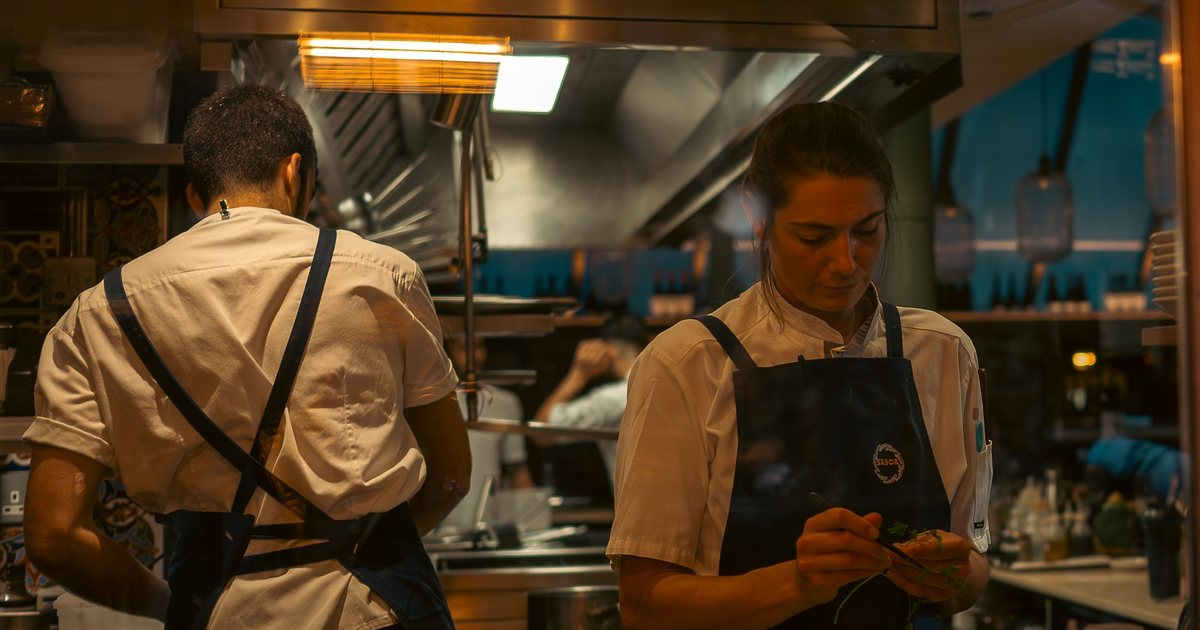
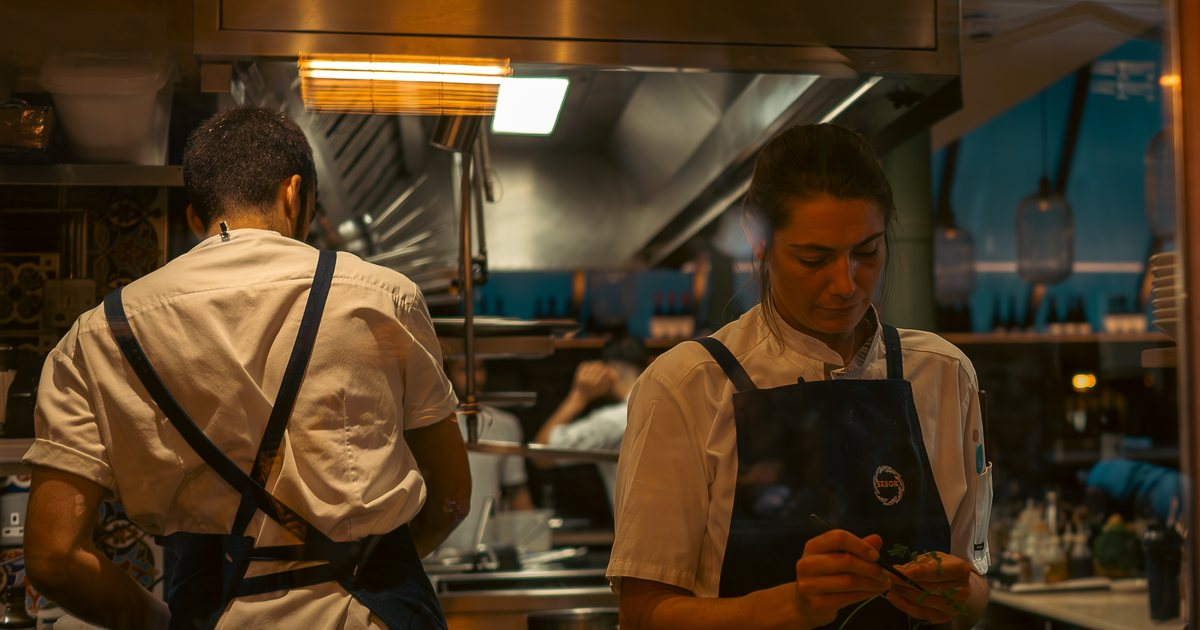
About portrait: David with the Z6 II in the car (21 Oct 2026), replacing the behind-the-wheel portrait
Claude-Session: https://claude.ai/code/session_01VeaS1LDqTvXgjWxFwdoPuX

diff --git a/site/guides/business-email-free/index.html b/site/guides/business-email-free/index.html
@@ -13,7 +13,7 @@
 <meta property="og:image" content="https://davidslv.photography/images/guide/b1/cards-og.jpg">
 <meta name="twitter:card" content="summary_large_image">
 <link rel="icon" href="/favicon.svg" type="image/svg+xml">
-<script type="application/ld+json">{"@context": "https://schema.org", "@type": "Article", "headline": "A business email on your own domain, free (Gmail + Cloudflare)", "description": "How to get hello@yourdomain for free: Cloudflare Email Routing forwards it to Gmail, and Gmail's Send mail as replies from it. Step by step, with the problems I hit.", "image": "https://davidslv.photography/images/guide/b1/cards-og.jpg", "url": "https://davidslv.photography/guides/business-email-free/", "inLanguage": "en-GB", "dateModified": "2026-11-04T11:12:30+00:00", "author": {"@type": "Person", "name": "David Silva", "url": "https://davidslv.photography/"}, "publisher": {"@type": "Person", "name": "David Silva", "url": "https://davidslv.photography/"}}</script>
+<script type="application/ld+json">{"@context": "https://schema.org", "@type": "Article", "headline": "A business email on your own domain, free (Gmail + Cloudflare)", "description": "How to get hello@yourdomain for free: Cloudflare Email Routing forwards it to Gmail, and Gmail's Send mail as replies from it. Step by step, with the problems I hit.", "image": "https://davidslv.photography/images/guide/b1/cards-og.jpg", "url": "https://davidslv.photography/guides/business-email-free/", "inLanguage": "en-GB", "dateModified": "2026-11-04T11:15:15+00:00", "author": {"@type": "Person", "name": "David Silva", "url": "https://davidslv.photography/"}, "publisher": {"@type": "Person", "name": "David Silva", "url": "https://davidslv.photography/"}}</script>
 <script type="module" src="https://static.cloudflareinsights.com/beacon.min.js" data-cf-beacon='{"token": "e5049d2f041d46859a41276d44ddba33"}'></script><script>/* Anonymous reading stats for this site (site-stats Worker). No cookies, nothing stored on the device,
    no IP kept. Skipped for browsers sending Global Privacy Control or Do Not Track, and for automation. */
 (() => {

diff --git a/site/guides/sell-your-photo-book/index.html b/site/guides/sell-your-photo-book/index.html
@@ -13,7 +13,7 @@
 <meta property="og:image" content="https://davidslv.photography/images/guide-og.jpg">
 <meta name="twitter:card" content="summary_large_image">
 <link rel="icon" href="/favicon.svg" type="image/svg+xml">
-<script type="application/ld+json">{"@context": "https://schema.org", "@type": "Article", "headline": "Sell your photo book from your own website", "description": "A free step-by-step guide to selling a print-on-demand photo book from your own website with Stripe and Prodigi, with no shop platform and no monthly fee. Two routes: no code, or automatic orders.", "image": "https://davidslv.photography/images/guide-og.jpg", "url": "https://davidslv.photography/guides/sell-your-photo-book/", "inLanguage": "en-GB", "dateModified": "2026-11-04T11:12:30+00:00", "author": {"@type": "Person", "name": "David Silva", "url": "https://davidslv.photography/"}, "publisher": {"@type": "Person", "name": "David Silva", "url": "https://davidslv.photography/"}}</script>
+<script type="application/ld+json">{"@context": "https://schema.org", "@type": "Article", "headline": "Sell your photo book from your own website", "description": "A free step-by-step guide to selling a print-on-demand photo book from your own website with Stripe and Prodigi, with no shop platform and no monthly fee. Two routes: no code, or automatic orders.", "image": "https://davidslv.photography/images/guide-og.jpg", "url": "https://davidslv.photography/guides/sell-your-photo-book/", "inLanguage": "en-GB", "dateModified": "2026-11-04T11:15:15+00:00", "author": {"@type": "Person", "name": "David Silva", "url": "https://davidslv.photography/"}, "publisher": {"@type": "Person", "name": "David Silva", "url": "https://davidslv.photography/"}}</script>
 <script type="module" src="https://static.cloudflareinsights.com/beacon.min.js" data-cf-beacon='{"token": "e5049d2f041d46859a41276d44ddba33"}'></script><script>/* Anonymous reading stats for this site (site-stats Worker). No cookies, nothing stored on the device,
    no IP kept. Skipped for browsers sending Global Privacy Control or Do Not Track, and for automation. */
 (() => {

diff --git a/site/guides/flat-car-meet-photos/index.html b/site/guides/flat-car-meet-photos/index.html
@@ -13,7 +13,7 @@
 <meta property="og:image" content="https://davidslv.photography/images/guide/a1/DSC_5226_after_D01.jpg">
 <meta name="twitter:card" content="summary_large_image">
 <link rel="icon" href="/favicon.svg" type="image/svg+xml">
-<script type="application/ld+json">{"@context": "https://schema.org", "@type": "Article", "headline": "Why your car meet photos look flat (and the fix)", "description": "Grey UK mornings make car meet photos dark and flat. Why it happens, and a free six-step fix in Lightroom, with before and after photos from real meets.", "image": "https://davidslv.photography/images/guide/a1/DSC_5226_after_D01.jpg", "url": "https://davidslv.photography/guides/flat-car-meet-photos/", "inLanguage": "en-GB", "dateModified": "2026-11-04T11:12:30+00:00", "author": {"@type": "Person", "name": "David Silva", "url": "https://davidslv.photography/"}, "publisher": {"@type": "Person", "name": "David Silva", "url": "https://davidslv.photography/"}}</script>
+<script type="application/ld+json">{"@context": "https://schema.org", "@type": "Article", "headline": "Why your car meet photos look flat (and the fix)", "description": "Grey UK mornings make car meet photos dark and flat. Why it happens, and a free six-step fix in Lightroom, with before and after photos from real meets.", "image": "https://davidslv.photography/images/guide/a1/DSC_5226_after_D01.jpg", "url": "https://davidslv.photography/guides/flat-car-meet-photos/", "inLanguage": "en-GB", "dateModified": "2026-11-04T11:15:15+00:00", "author": {"@type": "Person", "name": "David Silva", "url": "https://davidslv.photography/"}, "publisher": {"@type": "Person", "name": "David Silva", "url": "https://davidslv.photography/"}}</script>
 <script type="module" src="https://static.cloudflareinsights.com/beacon.min.js" data-cf-beacon='{"token": "e5049d2f041d46859a41276d44ddba33"}'></script><script>/* Anonymous reading stats for this site (site-stats Worker). No cookies, nothing stored on the device,
    no IP kept. Skipped for browsers sending Global Privacy Control or Do Not Track, and for automation. */
 (() => {

diff --git a/site/guides/portfolio-website-free/index.html b/site/guides/portfolio-website-free/index.html
@@ -13,7 +13,7 @@
 <meta property="og:image" content="https://davidslv.photography/images/guide/b2/home.jpg">
 <meta name="twitter:card" content="summary_large_image">
 <link rel="icon" href="/favicon.svg" type="image/svg+xml">
-<script type="application/ld+json">{"@context": "https://schema.org", "@type": "Article", "headline": "A photography portfolio website for \u00a30 a month", "description": "How this photography site runs on GitHub Pages for \u00a30 a month, on its own domain: the costs, the steps, fast photos that stay yours, and what it can't do.", "image": "https://davidslv.photography/images/guide/b2/home.jpg", "url": "https://davidslv.photography/guides/portfolio-website-free/", "inLanguage": "en-GB", "dateModified": "2026-11-04T11:12:30+00:00", "author": {"@type": "Person", "name": "David Silva", "url": "https://davidslv.photography/"}, "publisher": {"@type": "Person", "name": "David Silva", "url": "https://davidslv.photography/"}}</script>
+<script type="application/ld+json">{"@context": "https://schema.org", "@type": "Article", "headline": "A photography portfolio website for \u00a30 a month", "description": "How this photography site runs on GitHub Pages for \u00a30 a month, on its own domain: the costs, the steps, fast photos that stay yours, and what it can't do.", "image": "https://davidslv.photography/images/guide/b2/home.jpg", "url": "https://davidslv.photography/guides/portfolio-website-free/", "inLanguage": "en-GB", "dateModified": "2026-11-04T11:15:15+00:00", "author": {"@type": "Person", "name": "David Silva", "url": "https://davidslv.photography/"}, "publisher": {"@type": "Person", "name": "David Silva", "url": "https://davidslv.photography/"}}</script>
 <script type="module" src="https://static.cloudflareinsights.com/beacon.min.js" data-cf-beacon='{"token": "e5049d2f041d46859a41276d44ddba33"}'></script><script>/* Anonymous reading stats for this site (site-stats Worker). No cookies, nothing stored on the device,
    no IP kept. Skipped for browsers sending Global Privacy Control or Do Not Track, and for automation. */
 (() => {

diff --git a/site/field-guide/index.html b/site/field-guide/index.html
@@ -13,7 +13,7 @@
 <meta property="og:image" content="https://davidslv.photography/images/field-guide/guide-cover-1920w.jpg">
 <meta name="twitter:card" content="summary_large_image">
 <link rel="icon" href="/favicon.svg" type="image/svg+xml">
-<script type="application/ld+json">{"@context": "https://schema.org", "@type": "Article", "headline": "The Car Meet Field Guide", "description": "A free 36-page printable field guide and 32 quick cards for your phone: how to plan a car meet, read the light, the angles round every car, and the settings I use.", "image": "https://davidslv.photography/images/field-guide/guide-cover-1920w.jpg", "url": "https://davidslv.photography/field-guide/", "inLanguage": "en-GB", "dateModified": "2026-11-04T11:12:30+00:00", "author": {"@type": "Person", "name": "David Silva", "url": "https://davidslv.photography/"}, "publisher": {"@type": "Person", "name": "David Silva", "url": "https://davidslv.photography/"}}</script>
+<script type="application/ld+json">{"@context": "https://schema.org", "@type": "Article", "headline": "The Car Meet Field Guide", "description": "A free 36-page printable field guide and 32 quick cards for your phone: how to plan a car meet, read the light, the angles round every car, and the settings I use.", "image": "https://davidslv.photography/images/field-guide/guide-cover-1920w.jpg", "url": "https://davidslv.photography/field-guide/", "inLanguage": "en-GB", "dateModified": "2026-11-04T11:15:15+00:00", "author": {"@type": "Person", "name": "David Silva", "url": "https://davidslv.photography/"}, "publisher": {"@type": "Person", "name": "David Silva", "url": "https://davidslv.photography/"}}</script>
 <script type="module" src="https://static.cloudflareinsights.com/beacon.min.js" data-cf-beacon='{"token": "e5049d2f041d46859a41276d44ddba33"}'></script><script>/* Anonymous reading stats for this site (site-stats Worker). No cookies, nothing stored on the device,
    no IP kept. Skipped for browsers sending Global Privacy Control or Do Not Track, and for automation. */
 (() => {

diff --git a/site/index.html b/site/index.html
@@ -35,7 +35,7 @@
    "name": "David Silva",
    "url": "https://davidslv.photography/",
    "jobTitle": "Photographer and software engineer",
-   "image": "https://davidslv.photography/images/david-silva.f6a20cc0e2.jpg",
+   "image": "https://davidslv.photography/images/david-silva.be338991a1.jpg",
    "email": "mailto:hello@davidslv.photography",
    "address": {
     "@type": "PostalAddress",
@@ -76,7 +76,7 @@
    "primaryImageOfPage": {
     "@id": "https://davidslv.photography/#photo-n172"
    },
-   "dateModified": "2026-11-04T11:12:30+00:00",
+   "dateModified": "2026-11-04T11:15:15+00:00",
    "mainEntity": {
     "@id": "https://davidslv.photography/#david"
    },
@@ -780,7 +780,7 @@ header.site nav.main { flex-wrap: wrap; column-gap: 20px; row-gap: 0; }
 <p class="home-line">Photographs of a family vineyard in Sicily, for the website I'm building for them.</p>
 <p><a class="btn" href="/sicily/">See the harvest</a></p></section>
 <section class="about" id="about">
-<img src="/images/david-silva.f6a20cc0e2.jpg" width="800" height="800" loading="lazy" decoding="async" alt="Portrait of David Silva.">
+<img src="/images/david-silva.be338991a1.jpg" width="800" height="800" loading="lazy" decoding="async" alt="Portrait of David Silva.">
 <div><p class="lbl">About</p><h2>David Silva</h2>
 <p>I'm David Silva, a photographer and software engineer in London. I've photographed London at night and two years of Sunday car meets, and made books of both. I've written software since I was 12. So the photos and the website come from the same person, and you deal with one person from start to finish.</p></div></section>
 <section class="more" aria-labelledby="ph-h"><h2 id="ph-h" class="lbl more-head">For photographers</h2>

diff --git a/site/blackbushe/index.html b/site/blackbushe/index.html
@@ -35,7 +35,7 @@
    "name": "David Silva",
    "url": "https://davidslv.photography/",
    "jobTitle": "Photographer and software engineer",
-   "image": "https://davidslv.photography/images/david-silva.f6a20cc0e2.jpg",
+   "image": "https://davidslv.photography/images/david-silva.be338991a1.jpg",
    "email": "mailto:hello@davidslv.photography",
    "address": {
     "@type": "PostalAddress",
@@ -73,7 +73,7 @@
    "primaryImageOfPage": {
     "@id": "https://davidslv.photography/blackbushe/#photo-b7708"
    },
-   "dateModified": "2026-11-04T11:12:30+00:00",
+   "dateModified": "2026-11-04T11:15:15+00:00",
    "mainEntity": {
     "@type": "ImageGallery",
     "name": "Porsche Club GB Region 29 at Blackbushe, 11 October 2026",

diff --git a/site/mclaren/index.html b/site/mclaren/index.html
@@ -35,7 +35,7 @@
    "name": "David Silva",
    "url": "https://davidslv.photography/",
    "jobTitle": "Photographer and software engineer",
-   "image": "https://davidslv.photography/images/david-silva.f6a20cc0e2.jpg",
+   "image": "https://davidslv.photography/images/david-silva.be338991a1.jpg",
    "email": "mailto:hello@davidslv.photography",
    "address": {
     "@type": "PostalAddress",
@@ -73,7 +73,7 @@
    "primaryImageOfPage": {
     "@id": "https://davidslv.photography/mclaren/#photo-m0206"
    },
-   "dateModified": "2026-11-04T11:12:30+00:00",
+   "dateModified": "2026-11-04T11:15:15+00:00",
    "mainEntity": {
     "@type": "ImageGallery",
     "name": "A day at the McLaren Technology Centre open day, 2024",

diff --git a/site/sunday/index.html b/site/sunday/index.html
@@ -35,7 +35,7 @@
    "name": "David Silva",
    "url": "https://davidslv.photography/",
    "jobTitle": "Photographer and software engineer",
-   "image": "https://davidslv.photography/images/david-silva.f6a20cc0e2.jpg",
+   "image": "https://davidslv.photography/images/david-silva.be338991a1.jpg",
    "email": "mailto:hello@davidslv.photography",
    "address": {
     "@type": "PostalAddress",
@@ -73,7 +73,7 @@
    "primaryImageOfPage": {
     "@id": "https://davidslv.photography/sunday/#photo-s3706"
    },
-   "dateModified": "2026-11-04T11:12:30+00:00",
+   "dateModified": "2026-11-04T11:15:15+00:00",
    "mainEntity": {
     "@type": "ImageGallery",
     "name": "Sunday car meets, November 2024 to October 2026",

diff --git a/site/sicily/index.html b/site/sicily/index.html
@@ -35,7 +35,7 @@
    "name": "David Silva",
    "url": "https://davidslv.photography/",
    "jobTitle": "Photographer and software engineer",
-   "image": "https://davidslv.photography/images/david-silva.f6a20cc0e2.jpg",
+   "image": "https://davidslv.photography/images/david-silva.be338991a1.jpg",
    "email": "mailto:hello@davidslv.photography",
    "address": {
     "@type": "PostalAddress",
@@ -73,7 +73,7 @@
    "primaryImageOfPage": {
     "@id": "https://davidslv.photography/sicily/#photo-s8801"
    },
-   "dateModified": "2026-11-04T11:12:30+00:00",
+   "dateModified": "2026-11-04T11:15:15+00:00",
    "mainEntity": {
     "@type": "ImageGallery",
     "name": "The harvest at Tenuta Tremollito, Sicily, 2025",

diff --git a/site/ericeira/index.html b/site/ericeira/index.html
@@ -35,7 +35,7 @@
    "name": "David Silva",
    "url": "https://davidslv.photography/",
    "jobTitle": "Photographer and software engineer",
-   "image": "https://davidslv.photography/images/david-silva.f6a20cc0e2.jpg",
+   "image": "https://davidslv.photography/images/david-silva.be338991a1.jpg",
    "email": "mailto:hello@davidslv.photography",
    "address": {
     "@type": "PostalAddress",
@@ -73,7 +73,7 @@
    "primaryImageOfPage": {
     "@id": "https://davidslv.photography/ericeira/#photo-e8537"
    },
-   "dateModified": "2026-11-04T11:12:30+00:00",
+   "dateModified": "2026-11-04T11:15:15+00:00",
    "mainEntity": {
     "@type": "ImageGallery",
     "name": "Skimboarding at Ericeira, 26 February 2012",

diff --git a/site/london/index.html b/site/london/index.html
@@ -35,7 +35,7 @@
    "name": "David Silva",
    "url": "https://davidslv.photography/",
    "jobTitle": "Photographer and software engineer",
-   "image": "https://davidslv.photography/images/david-silva.f6a20cc0e2.jpg",
+   "image": "https://davidslv.photography/images/david-silva.be338991a1.jpg",
    "email": "mailto:hello@davidslv.photography",
    "address": {
     "@type": "PostalAddress",
@@ -73,7 +73,7 @@
    "primaryImageOfPage": {
     "@id": "https://davidslv.photography/london/#photo-n147"
    },
-   "dateModified": "2026-11-04T11:12:30+00:00",
+   "dateModified": "2026-11-04T11:15:15+00:00",
    "mainEntity": {
     "@type": "ImageGallery",
     "name": "One Saturday and other nights in London",
